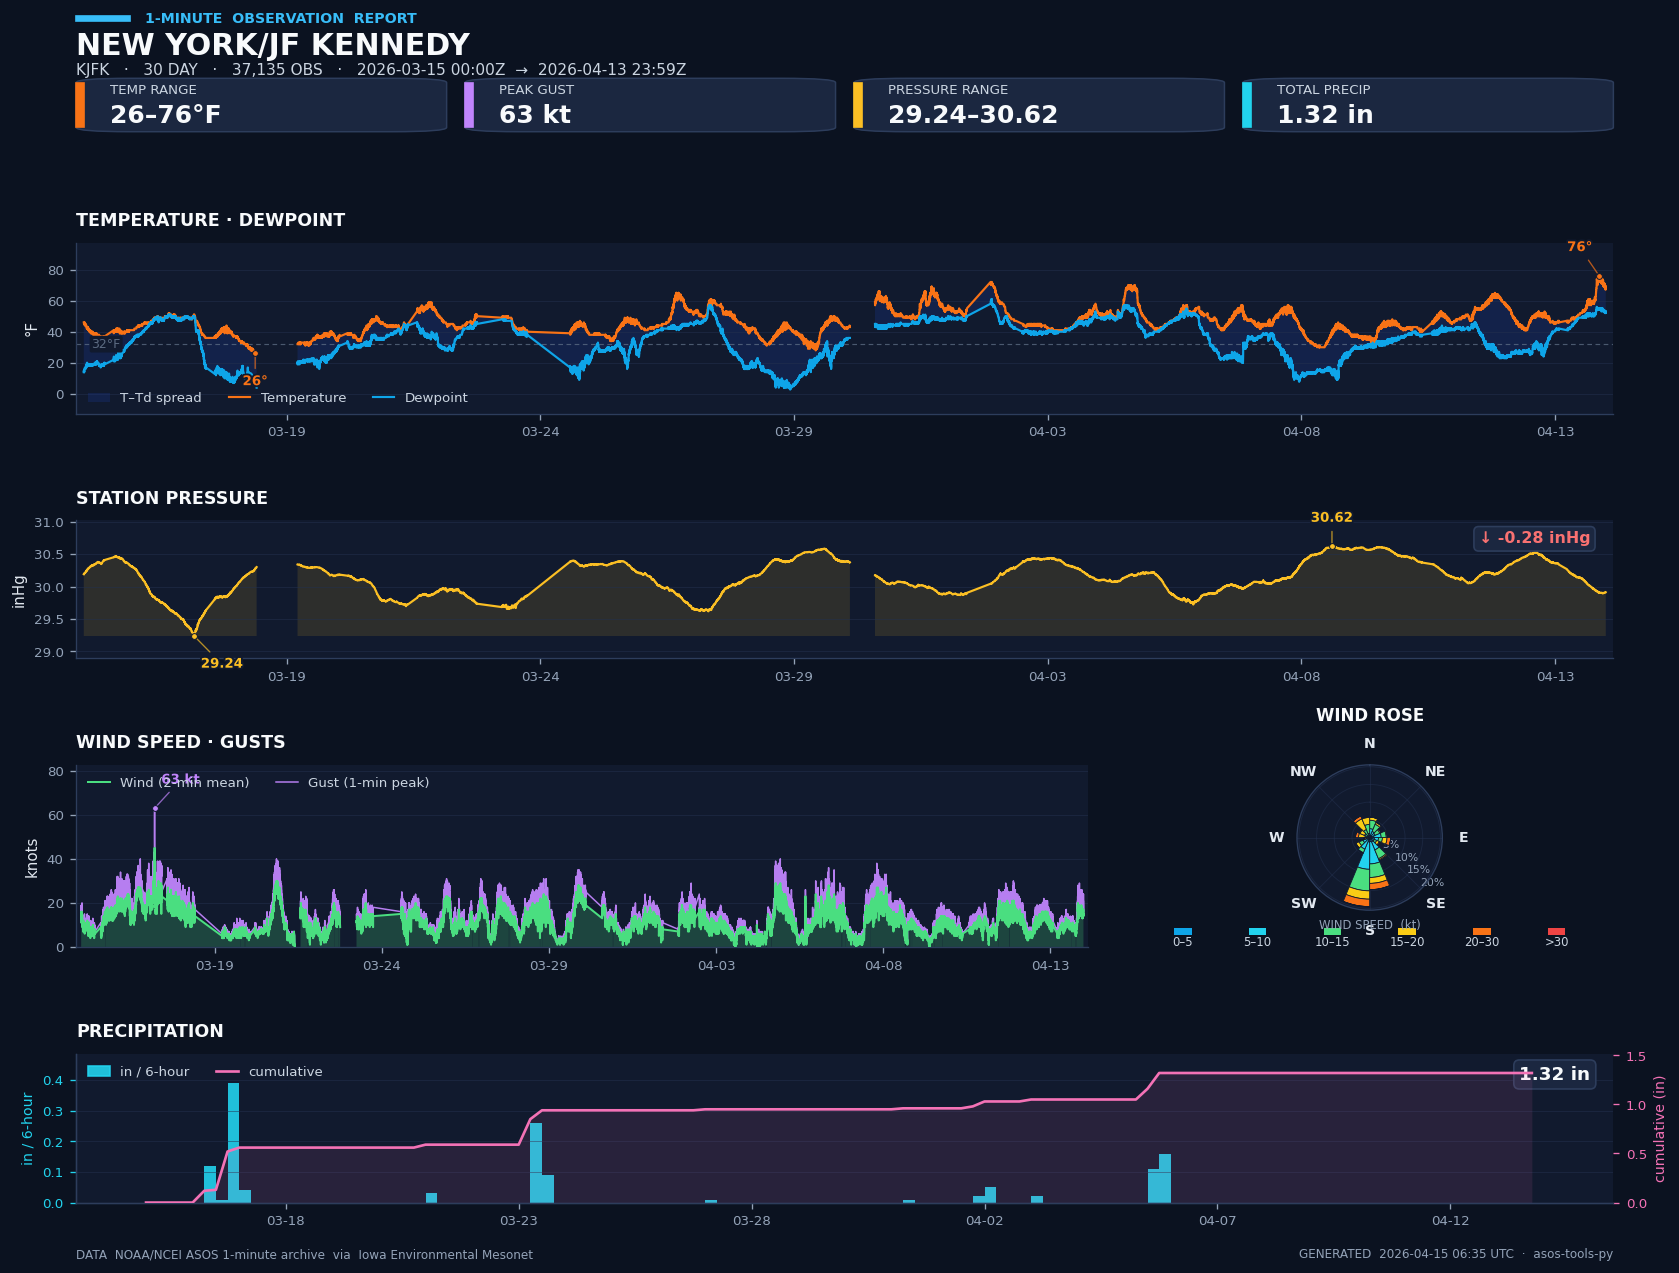
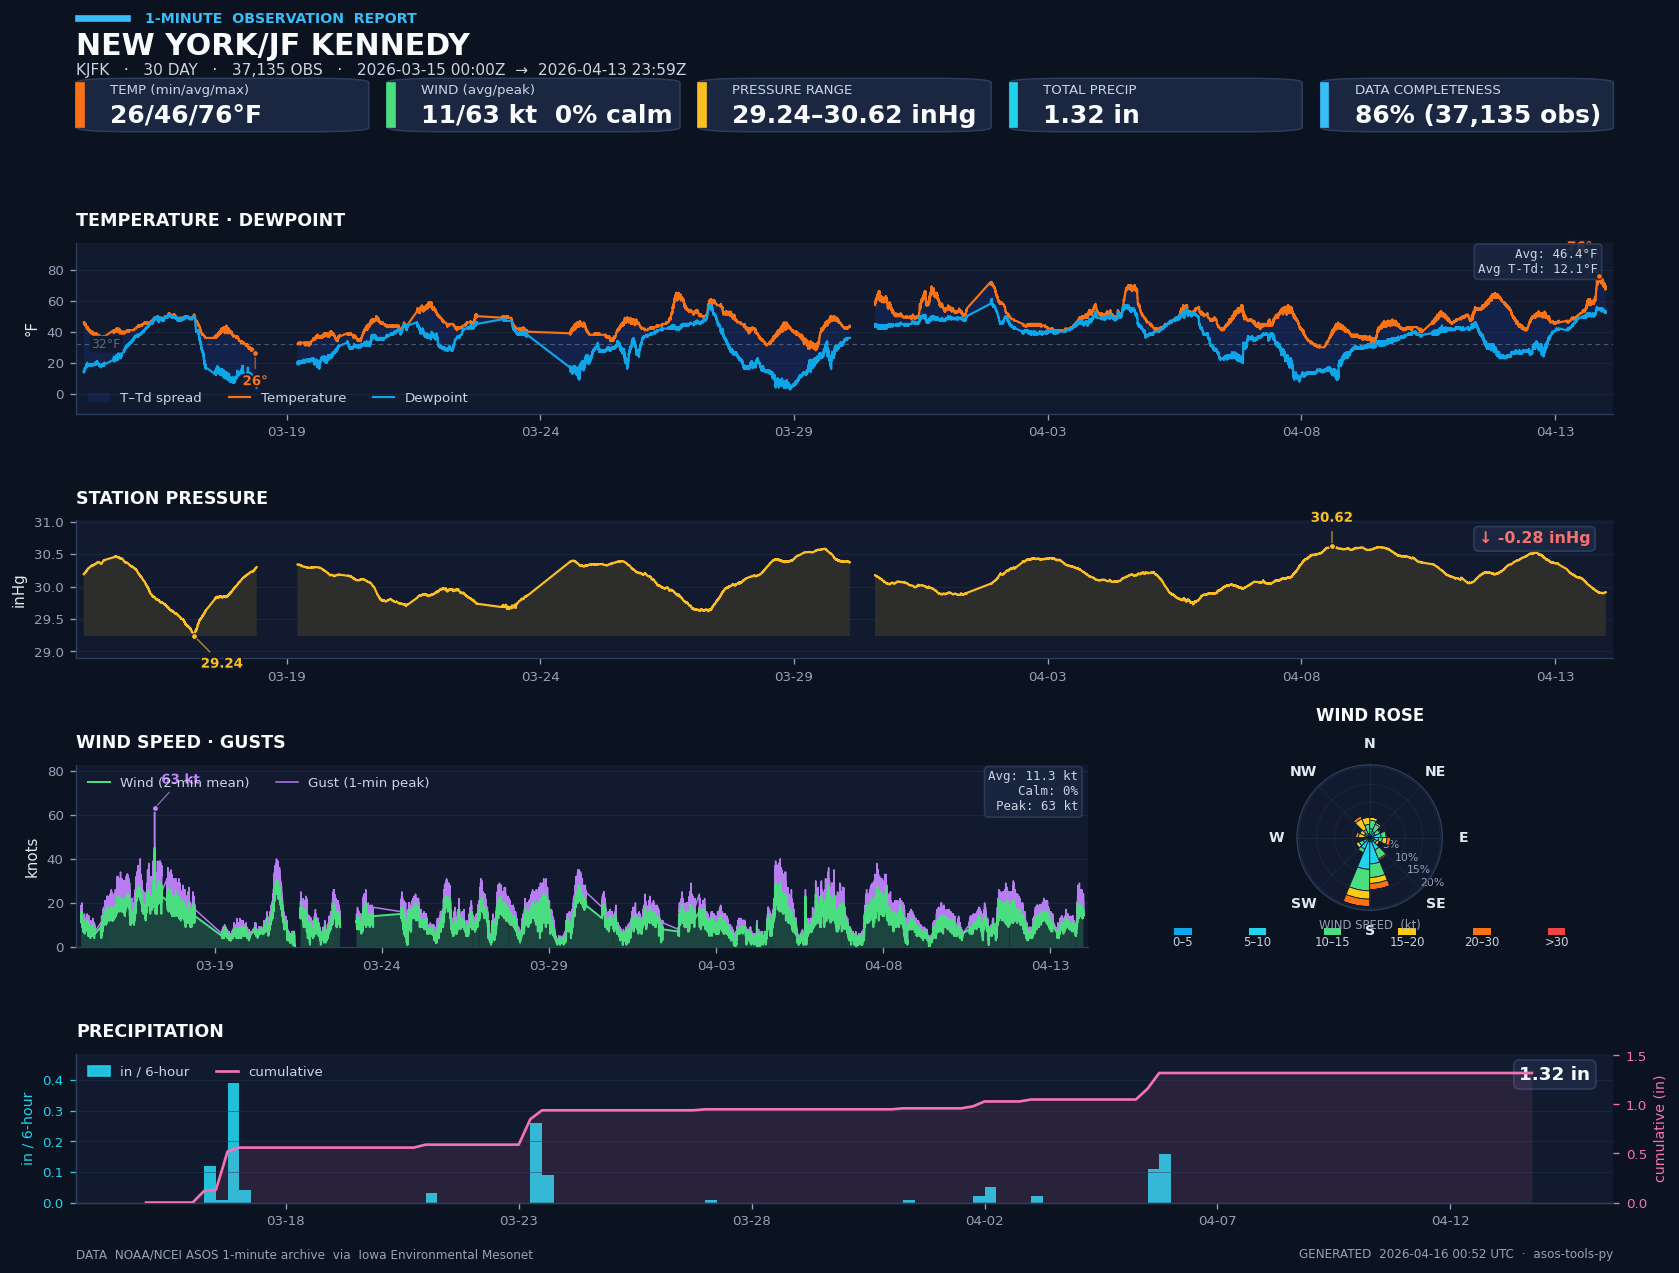
Enrich all report charts with more data density
1-min station report:
- Header chips now show min/avg/max temperature (not just range),
  avg/peak wind speed with calm %, and data completeness % with
  total observation count.
- Temperature panel: inline stats box (top-right) showing avg temp
  and avg dewpoint depression (T-Td spread).
- Wind panel: inline stats box showing avg speed, calm %, peak gust.

Maintenance report:
- Bar chart labels now include the probable $ reason decoded from
  the latest flagged METAR per station (e.g. "89% (168) — Internal
  check" or "52% (168) — [TS] Precip ID sensor"). Uses the enriched
  wxcodes field to show active weather context.

All regenerated report PNGs updated.

diff --git a/asos_tools/report.py b/asos_tools/report.py
@@ -173,23 +173,35 @@ def _draw_header(fig, ax, *, station_id: str, station_name: str,
             fontsize=9.2, color=SOFT, transform=ax.transAxes, va="center")
 
     # --- KPI chip strip (bottom ~42%) ---
+    # Compute data completeness: actual rows vs expected 1-per-minute.
+    span_min = (df["valid"].max() - df["valid"].min()).total_seconds() / 60
+    completeness = round(len(df) / max(span_min, 1) * 100, 1) if span_min > 0 else 0
+
     chips: list[tuple[str, str, str]] = []
     if "tmpf" in df and df["tmpf"].notna().any():
-        chips.append(("TEMP RANGE",
-                      f"{_stat(df['tmpf'].min(),'{:.0f}')}–{_stat(df['tmpf'].max(),'{:.0f}')}°F",
+        avg_t = df["tmpf"].mean()
+        chips.append(("TEMP (min/avg/max)",
+                      f"{_stat(df['tmpf'].min(),'{:.0f}')}/{_stat(avg_t,'{:.0f}')}/{_stat(df['tmpf'].max(),'{:.0f}')}°F",
                       C_TEMP))
-    if "gust_sknt" in df and df["gust_sknt"].notna().any():
-        chips.append(("PEAK GUST",
-                      f"{_stat(df['gust_sknt'].max(),'{:.0f}')} kt",
-                      C_GUST))
+    if "sknt" in df and df["sknt"].notna().any():
+        avg_w = df["sknt"].mean()
+        calm_pct = round((df["sknt"] == 0).sum() / max(df["sknt"].notna().sum(), 1) * 100, 0)
+        chips.append(("WIND (avg/peak)",
+                      f"{_stat(avg_w,'{:.0f}')}/{_stat(df['gust_sknt'].max(),'{:.0f}')} kt  {calm_pct:.0f}% calm",
+                      C_WIND))
     if "pres1" in df and df["pres1"].notna().any():
         chips.append(("PRESSURE RANGE",
-                      f"{_stat(df['pres1'].min(),'{:.2f}')}–{_stat(df['pres1'].max(),'{:.2f}')}",
+                      f"{_stat(df['pres1'].min(),'{:.2f}')}–{_stat(df['pres1'].max(),'{:.2f}')} inHg",
                       C_PRES))
     if "precip" in df and df["precip"].notna().any():
         chips.append(("TOTAL PRECIP",
                       f"{_stat(df['precip'].sum(),'{:.2f}')} in",
                       C_PRECIP))
+    if "vis1_coeff" in df and df["vis1_coeff"].notna().any():
+        min_vis = df["vis1_coeff"].min()
+        chips.append(("DATA COMPLETENESS",
+                      f"{completeness:.0f}% ({len(df):,} obs)",
+                      ACCENT))
 
     _draw_chip_strip(ax, chips)
 
@@ -332,6 +344,20 @@ def _panel_temp_dew(ax, df: pd.DataFrame) -> None:
 
     ax.legend(loc="lower left", ncol=3, handlelength=1.6,
               fontsize=8, bbox_to_anchor=(0.0, -0.02))
+
+    # Inline stats box — top-right corner.
+    if t is not None and t.notna().any():
+        mean_t = t.mean()
+        spread = (t - d).mean() if d is not None and d.notna().any() else None
+        stats_lines = [f"Avg: {mean_t:.1f}°F"]
+        if spread is not None:
+            stats_lines.append(f"Avg T-Td: {spread:.1f}°F")
+        stats_text = "\n".join(stats_lines)
+        ax.text(0.99, 0.97, stats_text, transform=ax.transAxes,
+                fontsize=7.5, color=SOFT, ha="right", va="top",
+                family="monospace",
+                bbox=dict(facecolor=BG_CHIP, edgecolor=BORDER,
+                          boxstyle="round,pad=0.3", alpha=0.9))
 
 
 def _panel_pressure(ax, df: pd.DataFrame) -> None:
@@ -485,6 +511,21 @@ def _panel_wind(ax, df: pd.DataFrame) -> None:
                           color=C_GUST, above=True)
 
     ax.legend(loc="upper left", ncol=2, handlelength=1.6, fontsize=8)
+
+    # Inline stats box.
+    if "sknt" in df and df["sknt"].notna().any():
+        avg_spd = df["sknt"].mean()
+        max_gust = df["gust_sknt"].max() if "gust_sknt" in df else None
+        calm_n = (df["sknt"] == 0).sum()
+        calm_pct = calm_n / max(df["sknt"].notna().sum(), 1) * 100
+        lines = [f"Avg: {avg_spd:.1f} kt", f"Calm: {calm_pct:.0f}%"]
+        if max_gust and pd.notna(max_gust):
+            lines.append(f"Peak: {max_gust:.0f} kt")
+        ax.text(0.99, 0.97, "\n".join(lines), transform=ax.transAxes,
+                fontsize=7.5, color=SOFT, ha="right", va="top",
+                family="monospace",
+                bbox=dict(facecolor=BG_CHIP, edgecolor=BORDER,
+                          boxstyle="round,pad=0.3", alpha=0.9))
 
 
 def _choose_precip_freq(span_seconds: float) -> tuple[str, str]:
@@ -694,6 +735,18 @@ def _panel_flag_rate_per_station(ax, metars_df: pd.DataFrame) -> None:
     per_stn["rate"] = per_stn["mean"] * 100
     per_stn = per_stn.sort_values("rate")
 
+    # Compute probable reason per station from the last flagged METAR.
+    from asos_tools.metars import decode_reasons_short
+    reasons: dict[str, str] = {}
+    for stn in per_stn.index:
+        flagged = metars_df[(metars_df["station"] == stn) & metars_df["has_maintenance"]]
+        if not flagged.empty:
+            row = flagged.iloc[-1]
+            wx = row.get("wxcodes") if "wxcodes" in flagged.columns else None
+            reasons[stn] = decode_reasons_short(row["metar"], wx)
+        else:
+            reasons[stn] = ""
+
     colors = [C_CLEAN if r < 10 else ("#fbbf24" if r < 50 else C_FLAG)
               for r in per_stn["rate"]]
     bars = ax.barh(per_stn.index, per_stn["rate"],
@@ -701,9 +754,13 @@ def _panel_flag_rate_per_station(ax, metars_df: pd.DataFrame) -> None:
     ax.set_xlim(0, 105)
     ax.set_xlabel("% of METARs ending in $")
     ax.grid(True, axis="x", alpha=0.4)
-    for bar, rate, count in zip(bars, per_stn["rate"], per_stn["count"]):
-        ax.text(rate + 1, bar.get_y() + bar.get_height() / 2,
-                f"{rate:.0f}%  ({count})", va="center", color=SOFT, fontsize=8)
+    for bar, (stn, row_data) in zip(bars, per_stn.iterrows()):
+        label = f"{row_data['rate']:.0f}%  ({row_data['count']})"
+        reason = reasons.get(stn, "")
+        if reason:
+            label += f"  — {reason[:40]}"
+        ax.text(row_data["rate"] + 1, bar.get_y() + bar.get_height() / 2,
+                label, va="center", color=SOFT, fontsize=7)
 
 
 def _panel_flag_heatmap(ax, metars_df: pd.DataFrame) -> None:
